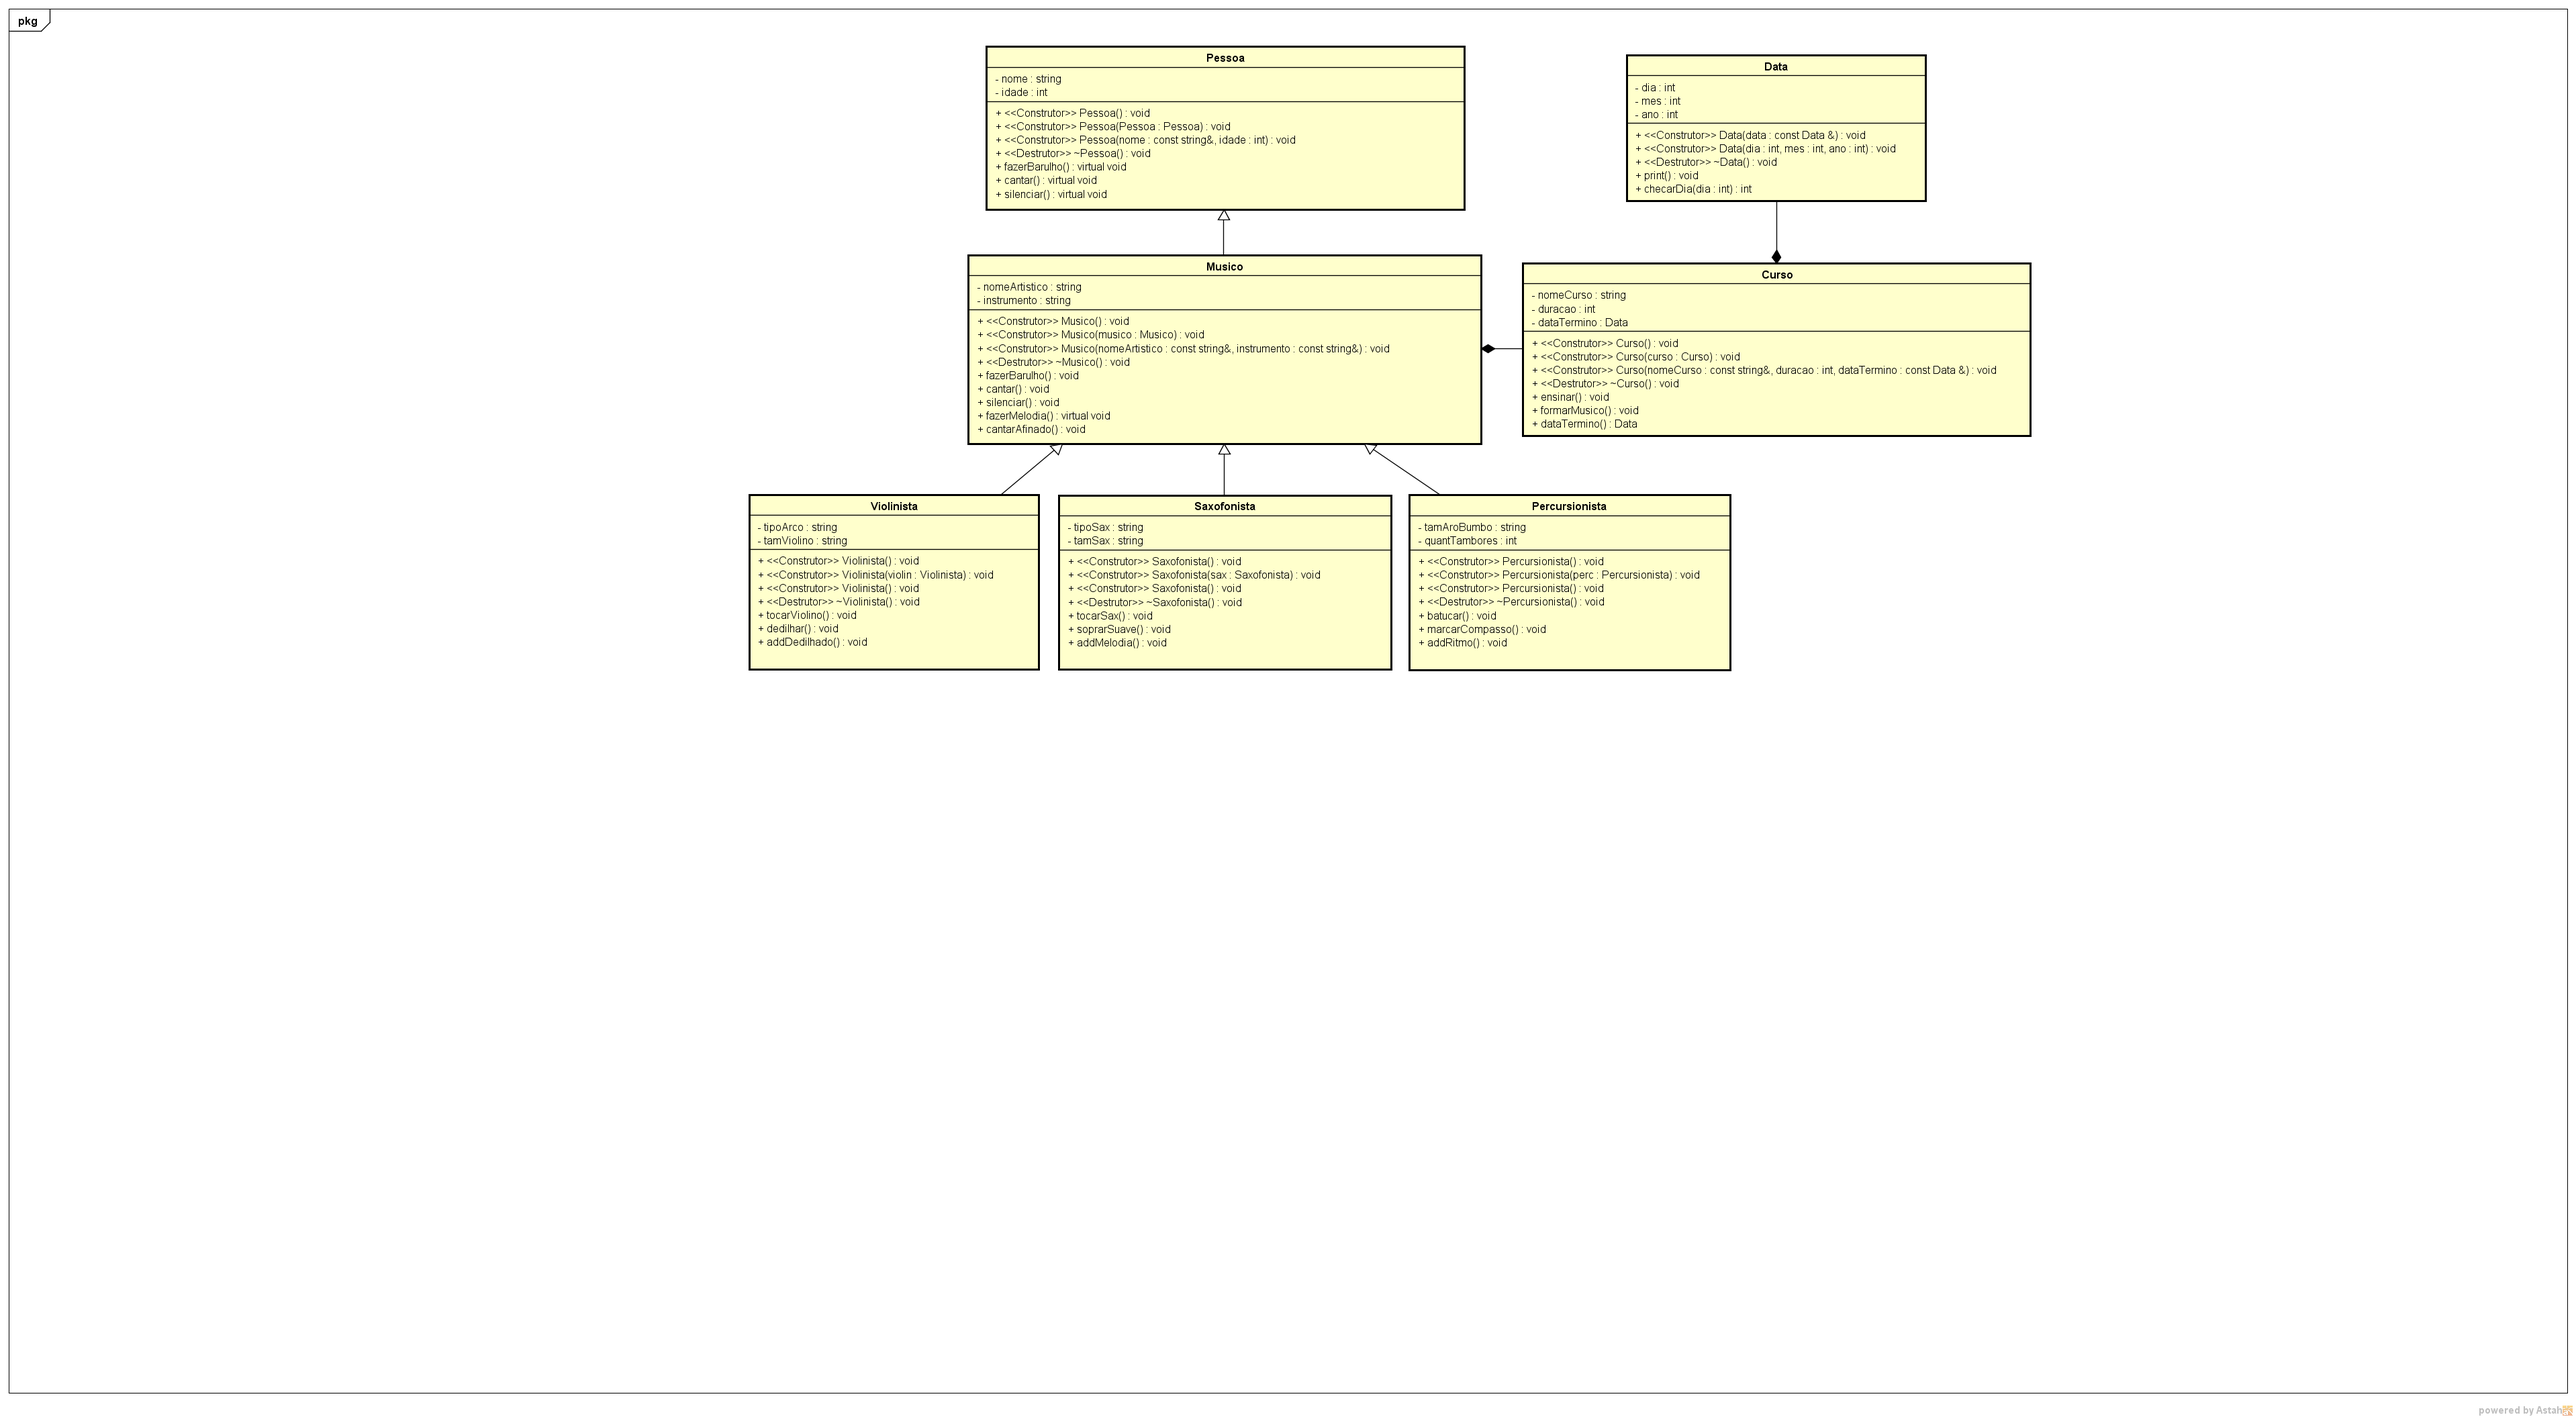
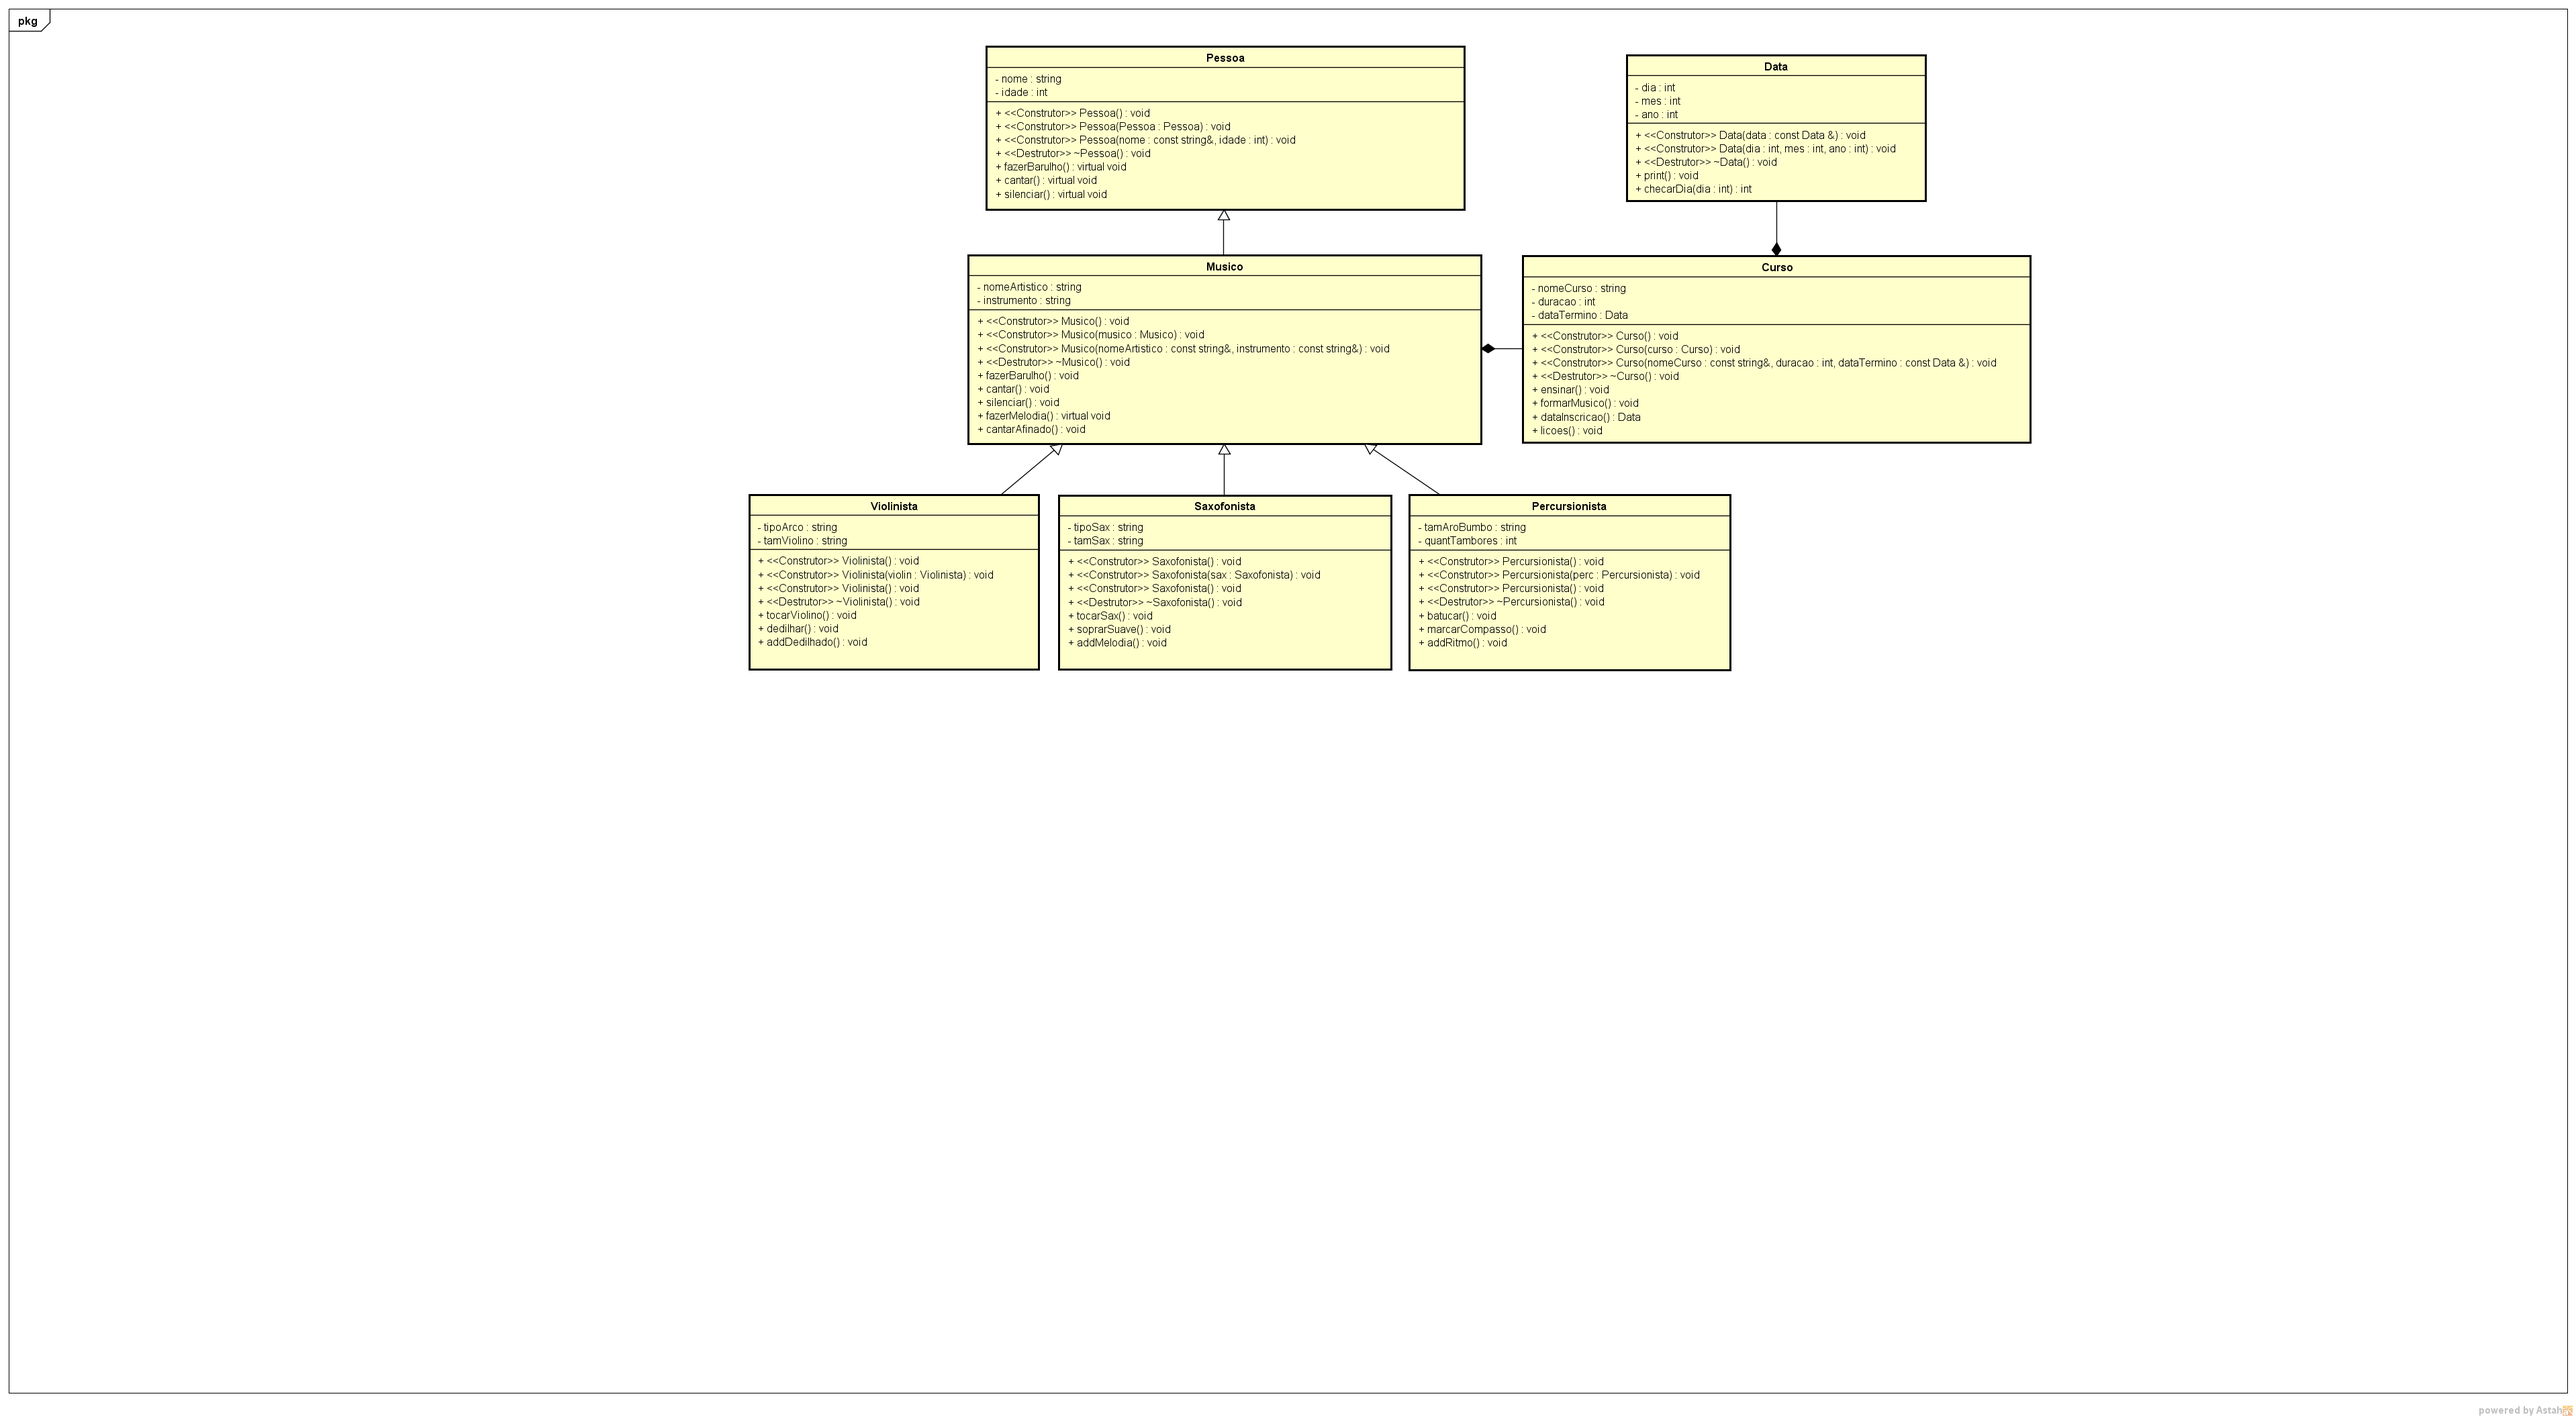
Segunda modificação. 16/03 - 15:38.

Changed region(s): [[0.5893, 0.1561, 0.7753, 0.3122]]

diff --git a/Musico/Curso.h b/Musico/Curso.h
@@ -1,5 +1,10 @@
 #pragma once
 #include "Data.h"
+#include <vector>
+#include <iostream>
+using std::vector;
+using std::cout;
+
 class Curso{
 
 	friend ostream &operator<< (ostream &, const Curso &); //Operador <<
@@ -13,6 +18,7 @@ public:
 
 	void ensinar();
 	void formarMusico();
+	void licoes();
 
 	const Curso &operator= (const Curso &);			//Operador =
 	bool operator== (const Curso &) const;			//Operador ==
